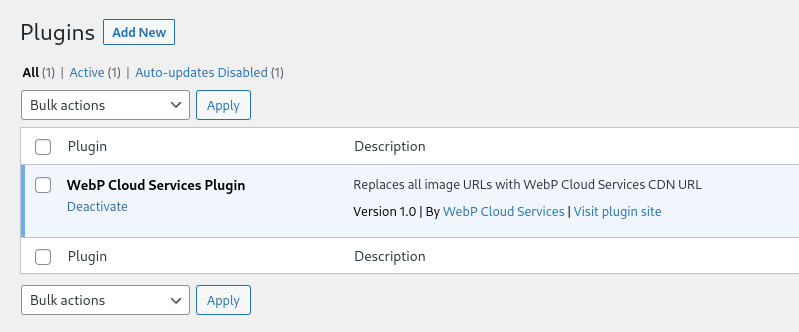
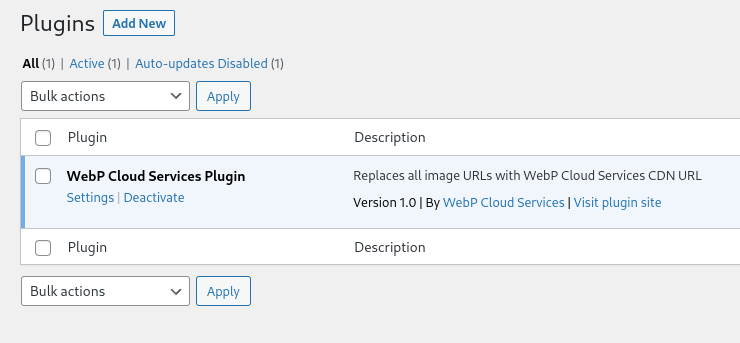
Add direct link to settings on plugin list page

diff --git a/plugin.php b/plugin.php
@@ -39,8 +39,15 @@ function image_proxy_register_settings() {
     register_setting('image_proxy_settings_group', 'proxy_url');
 }
 
+function image_proxy_plugin_settings_link($links) {
+    $settings_link = '<a href="options-general.php?page=image-proxy-settings">Settings</a>';
+    array_unshift($links, $settings_link);
+    return $links;
+}
+add_filter('plugin_action_links_' . plugin_basename(__FILE__), 'image_proxy_plugin_settings_link');
+
 add_action('admin_menu', function() {
-    add_options_page('WebP Cloud Services Plugin Settings', 'WebP Cloud Services Plugin Settings', 'manage_options', 'image-proxy-settings', 'image_proxy_settings_page');
+    add_options_page('WebP Cloud Services Plugin Settings', 'WebP Cloud Services', 'manage_options', 'image-proxy-settings', 'image_proxy_settings_page');
 });
 
 add_action('admin_init', 'image_proxy_register_settings');
